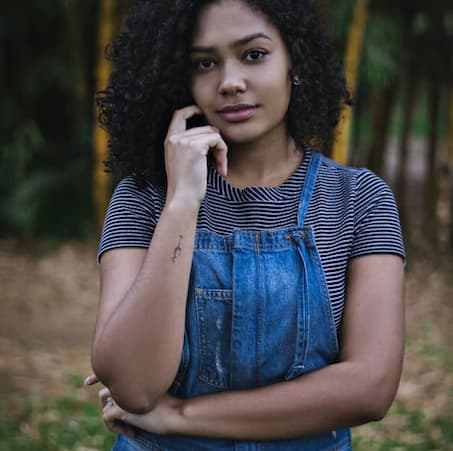
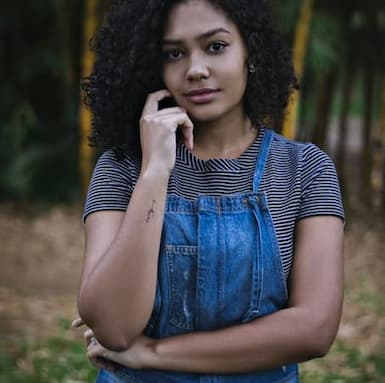
Ajustement de la taille et du format des dernieres images

diff --git a/index.html b/index.html
@@ -80,7 +80,7 @@
 		<h3 class="title">Portfolio</h3>
 		<div class="container py-3">
 			<div class="gallery" style="display: none">
-				<img data-gallery-tag="Concert" class="gallery-item" src="./assets/images/gallery/concerts/aaron-paul-wnX-fXzB6Cw-unsplash.jpg" alt="photo de aaron paul"/>
+				<img data-gallery-tag="Concert" class="gallery-item" src="./assets/images/gallery/concerts/aaron-paul-wnX-fXzB6Cw-unsplash.webp" alt="photo de aaron paul"/>
 				<img data-gallery-tag="Entreprises" class="gallery-item" src="./assets/images/gallery/entreprise/ali-morshedlou-WMD64tMfc4k-unsplash.jpg" alt="photo de ali morshedlou"/>
 				<img data-gallery-tag="Entreprises" class="gallery-item" src="./assets/images/gallery/entreprise/jason-goodman-tHO1_OuKbg0-unsplash.jpg" alt="photo de jason goodman"/>
 				<img data-gallery-tag="Mariages" class="gallery-item" src="./assets/images/gallery/mariage/hannah-busing-RvF2R_qMpRk-unsplash.jpg" alt="photo de hannah busing"/>
